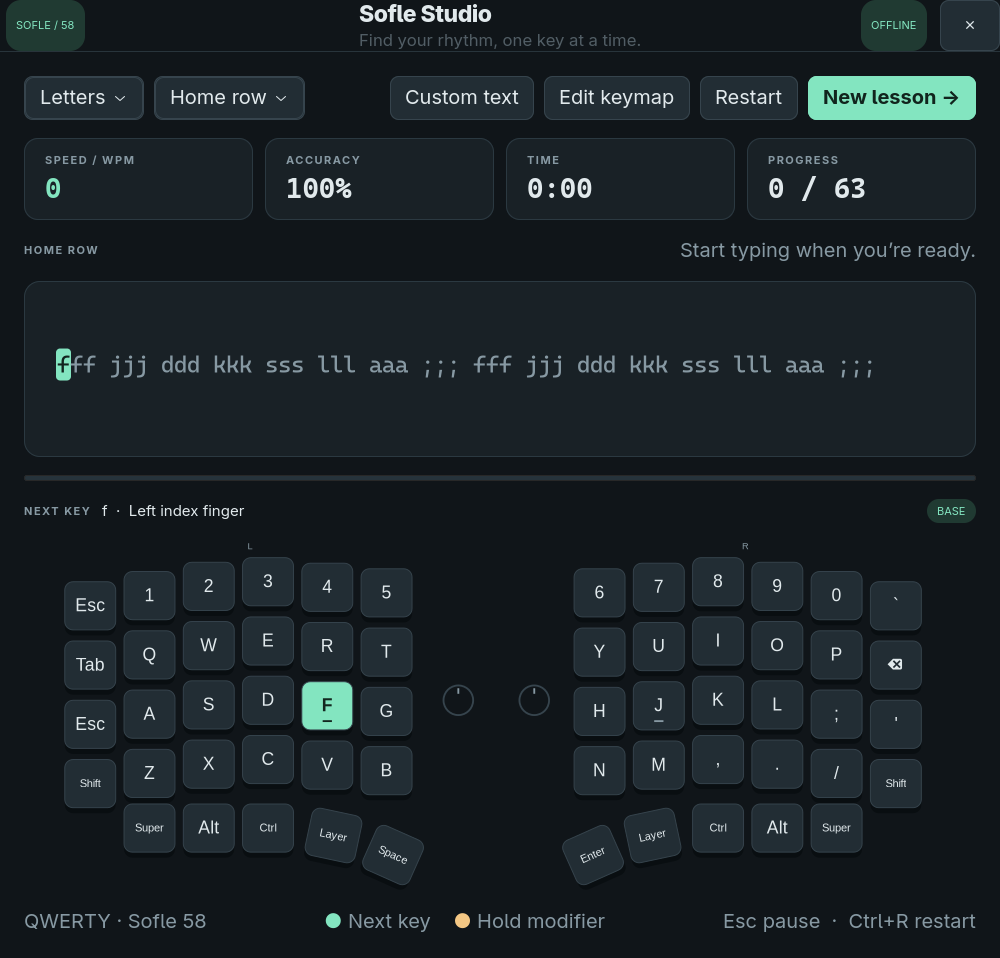
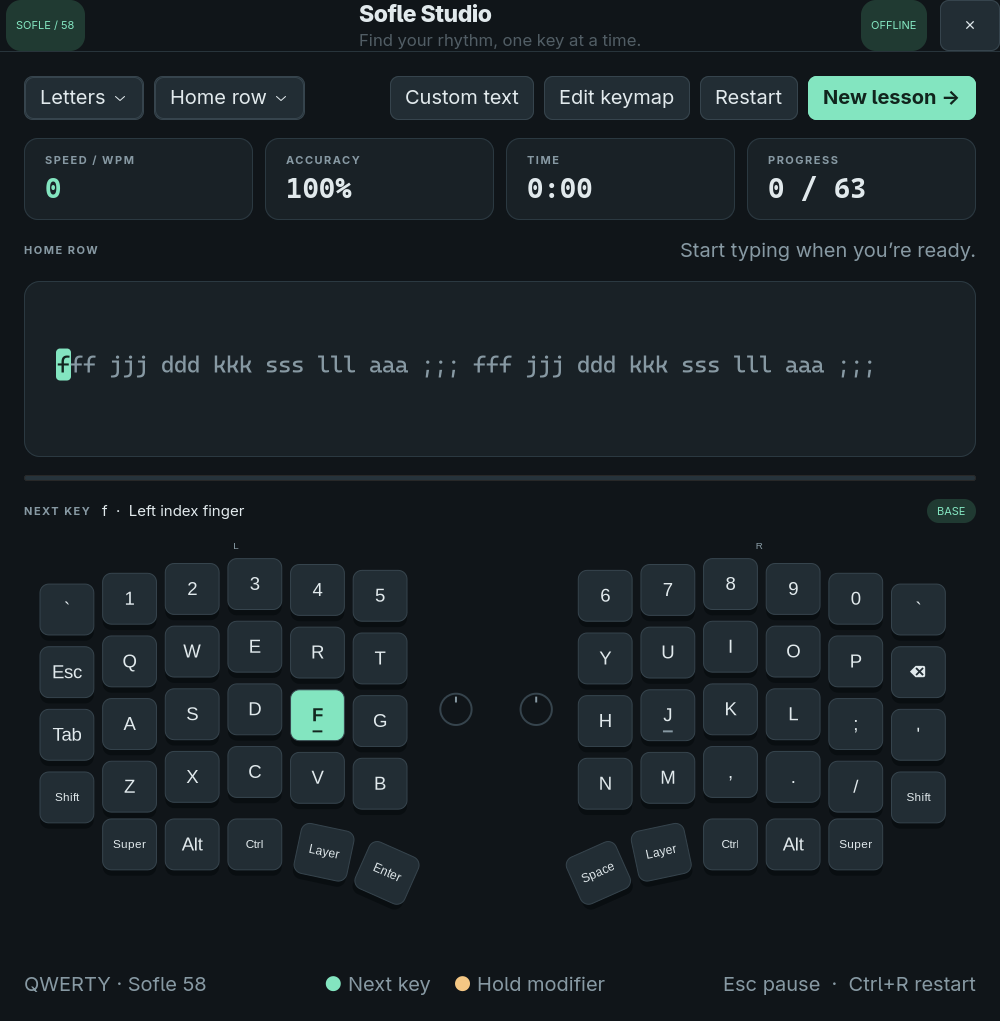
Fix web page head and align native keymap with stock QMK
- Add doctype, charset and viewport to the web trainer so it renders in
  standards mode with correct UTF-8 when opened from disk.
- Make the native QWERTY and Colemak-DH presets follow the stock QMK Sofle
  keymap used by the web app: Esc above Tab, Enter on the left thumb, Space
  on the right thumb, and the LOWER layer as the symbol layer.
- Update tests, smoke test, screenshot and READMEs to match.

diff --git a/web_app/sofle-trainer.html b/web_app/sofle-trainer.html
@@ -1,3 +1,7 @@
+<!doctype html>
+<html lang="en">
+<meta charset="utf-8">
+<meta name="viewport" content="width=device-width, initial-scale=1">
 <title>Sofle Trainer</title>
 <meta name="description" content="Typing trainer for the Sofle split keyboard that highlights the next key on your own keymap.">
 <link rel="preconnect" href="https://fonts.googleapis.com">
@@ -792,3 +796,4 @@ buildKeyboard(); renderLayerTabs(); applyViewSettings();
 setMode(state.mode);
 syncFocus();
 </script>
+</html>

diff --git a/linux_app/trainer.py b/linux_app/trainer.py
@@ -35,15 +35,15 @@ ROLES = ("Character", "Shift", "Layer", "Backspace", "Control", "Alt", "Super")
 def preset(name: str = "QWERTY") -> list[Key]:
     if name not in PRESETS:
         raise ValueError("Unknown keymap preset")
-    left = ["\x1b12345", "\tqwert", "\x1basdfg", "\x00zxcvb"]
+    # Base and LOWER layers follow the stock QMK Sofle keymap, like the web app.
+    left = ["`12345", "\x1bqwert", "\tasdfg", "\x00zxcvb"]
     right = ["67890`", "yuiop\b", "hjkl;'", "nm,./\x00"]
     if name == "Colemak-DH":
-        left[1:] = ["\tqwfpb", "\x1barstg", "\x00zxcdv"]
+        left[1:] = ["\x1bqwfpb", "\tarstg", "\x00zxcdv"]
         right[1:] = ["jluy;\b", "mneio'", "kh,./\x00"]
     shift = dict(zip("1234567890`-=[]\\;',./", "!@#$%^&*()~_+{}|:\"<>?"))
-    # A starting symbol layer, to be edited to match the user's firmware.
-    layer_left = ["", "\x00!@#$%", "\x00()[]{}", "\x00-_=+|"]
-    layer_right = ["", "^&*()\x00", "{}[]=\x00", "\\:;<>\x00"]
+    layer_left = ["", "`12345", "\x00!@#$%", "\x00=-+{}"]
+    layer_right = ["", "67890\x00", "^&*()|", "[];:\\\x00"]
     keys = []
     for hand, rows, layers in (("Left", left, layer_left), ("Right", right, layer_right)):
         for row, chars in enumerate(rows):
@@ -51,12 +51,13 @@ def preset(name: str = "QWERTY") -> list[Key]:
                 role = "Shift" if char == "\x00" else "Backspace" if char == "\b" else "Character"
                 base = "" if char in "\x00\x1b\b" else char
                 layer_char = layers[row][col] if len(layers[row]) > col else ""
+                layer_char = "" if layer_char == "\x00" else layer_char
                 keys.append(Key(f"{hand[0]}{row}{col}", hand, row, col, base,
                                 base.upper() if base.isalpha() else shift.get(base, ""),
-                                "" if layer_char == "\x00" else layer_char, role=role))
-        thumbs = [("", "Super"), ("", "Alt"), ("", "Control"), ("", "Layer"), (" ", "Character")]
+                                layer_char, shift.get(layer_char, ""), role=role))
+        thumbs = [("", "Super"), ("", "Alt"), ("", "Control"), ("", "Layer"), ("\n", "Character")]
         if hand == "Right":
-            thumbs = [("\n", "Character"), ("", "Layer"), ("", "Control"), ("", "Alt"), ("", "Super")]
+            thumbs = [(" ", "Character"), ("", "Layer"), ("", "Control"), ("", "Alt"), ("", "Super")]
         for col, (base, role) in enumerate(thumbs):
             keys.append(Key(f"{hand[0]}4{col}", hand, 4, col, base, role=role))
     return keys

diff --git a/linux_app/app.py b/linux_app/app.py
@@ -118,7 +118,7 @@ def key_label(key, field="base"):
         return {"Backspace": "⌫", "Control": "Ctrl", "Super": "Super", "Layer": "Layer"}.get(key.role, key.role)
     char = getattr(key, field)
     if not char:
-        return "Esc" if key.id in ("L00", "L20") else "—"
+        return "Esc" if key.id == "L10" else "—"
     return display_char(char).upper() if char.isalpha() else display_char(char)
 
 
@@ -784,11 +784,11 @@ class App(Gtk.Application):
             keyboard.select(thumb)
             entries = [w for w in widgets if isinstance(w, Gtk.Entry)]
             assert len(entries) == 5
-            entries[1].set_text("SPACE")
+            entries[1].set_text("ENTER")
             save = next(w for w in widgets if isinstance(w, Gtk.Button) and w.get_label() == "Save keymap")
             save.emit("clicked")
             assert not window.dialog_open
-            assert next(k for k in window.keys if k.id == "R40").base == " "
+            assert next(k for k in window.keys if k.id == "R40").base == "\n"
             assert (DATA / "keymap.json").exists()
             window.keys = preset()
             window.keymap_name = "QWERTY"

diff --git a/linux_app/tests/test_trainer.py b/linux_app/tests/test_trainer.py
@@ -15,8 +15,16 @@ class GuidanceTests(unittest.TestCase):
         self.assertEqual(guide.key.id, "L24")
         self.assertEqual(guide.key.finger, "Left index finger")
         self.assertEqual(guide.modifiers, ())
-        self.assertEqual(resolve(keys, " ").key.finger, "Left thumb")
-        self.assertEqual(resolve(keys, "\n").key.id, "R40")
+        self.assertEqual(resolve(keys, " ").key.finger, "Right thumb")
+        self.assertEqual(resolve(keys, "\n").key.id, "L44")
+        self.assertEqual(resolve(keys, "\t").key.id, "L20")
+
+    def test_qwerty_matches_stock_qmk_lower_layer(self):
+        keys = preset()
+        for char, key_id, field in (("=", "L31", "layer"), ("_", "L32", "layer_shifted"),
+                                    ("|", "R25", "layer"), ("\\", "R34", "layer")):
+            guide = resolve(keys, char)
+            self.assertEqual((guide.key.id, guide.field), (key_id, field), char)
 
     def test_uppercase_uses_opposite_shift(self):
         guide = resolve(preset(), "F")

diff --git a/README.md b/README.md
@@ -1,15 +1,15 @@
 # Sofle Studio
 
-A native, offline Linux typing trainer for the 58-key Sofle split keyboard.
-Practice letters, words and sentences with a keyboard diagram that highlights
-the next key, plus finger and modifier guidance.
+Typing trainers for the 58-key Sofle split keyboard. Both show a drawing of the
+Sofle that lights up the next key, plus any Shift or layer key to hold, and both
+start from the stock QMK Sofle keymap, which you can edit to match your firmware.
 
-The native app is in [`linux_app`](linux_app/). See its
-[README](linux_app/README.md) for installation, usage and uninstall instructions.
+There are two independent versions. Pick whichever suits you.
 
-With the required GTK 4 and Python dependencies installed, launch from this
-repository's root:
+| App | What it is | Get started |
+|---|---|---|
+| [`linux_app`](linux_app/) | Native GTK 4 desktop app in Python. Works offline and saves settings and history beside the app. | `./linux_app/run.sh` |
+| [`web_app`](web_app/) | A single HTML file that runs in the browser with no build or install step. Progress is saved in the browser. | Open `web_app/sofle-trainer.html` |
 
-```sh
-./linux_app/run.sh
-```
+See each folder's README for requirements, usage, keymap editing and uninstall
+instructions.

diff --git a/linux_app/README.md b/linux_app/README.md
@@ -61,9 +61,10 @@ The app works offline. Dependency installation may need an internet connection.
 
 ## Match your keyboard
 
-The starting **QWERTY** preset is a sample Sofle mapping. Letter positions are
-standard QWERTY; thumb keys and the symbol layer may differ from your firmware.
-An alternative Colemak-DH preset is included.
+The starting **QWERTY** preset follows the stock QMK Sofle keymap, the same
+default as the web app: its base layer, thumb keys, and LOWER layer as the
+symbol layer. An alternative Colemak-DH preset uses the same thumb keys and
+symbol layer. If your firmware differs, edit the keymap to match it.
 
 1. Choose **Edit keymap**.
 2. Click a key on the diagram.
